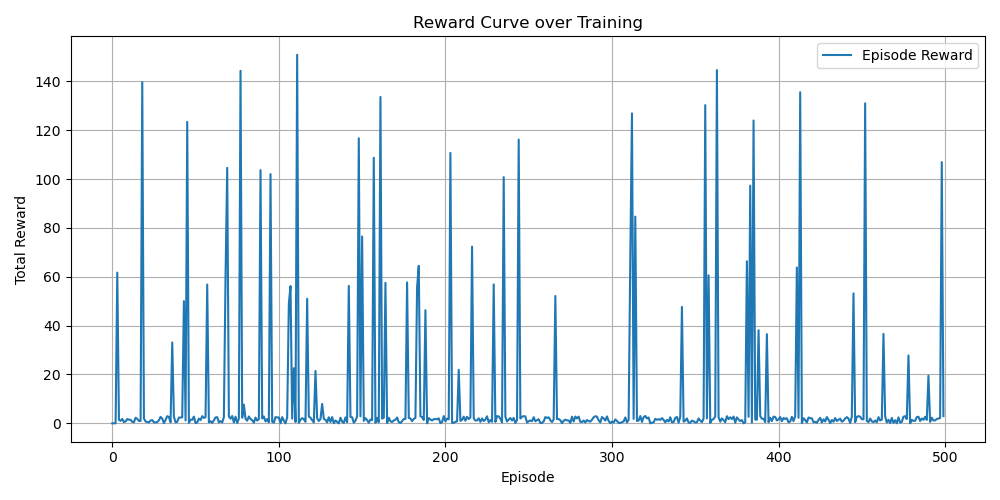
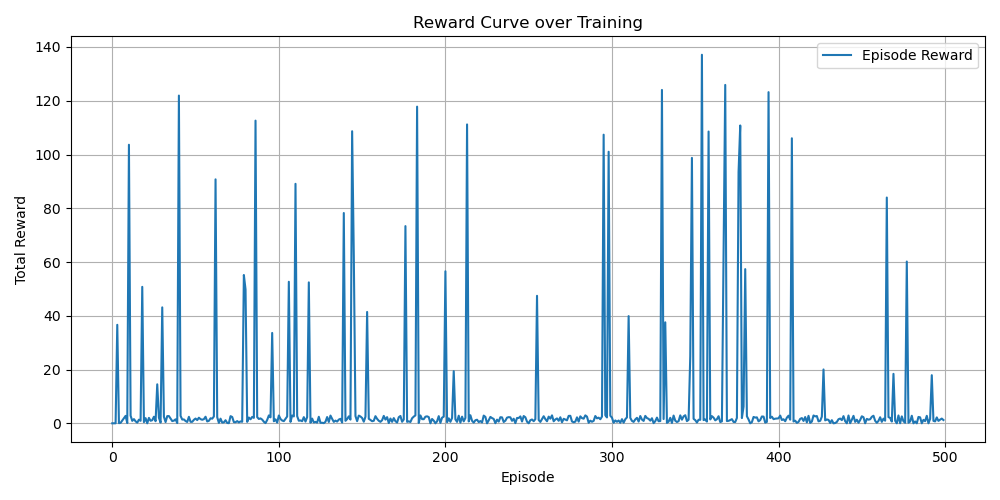
move plotting functions and made data more correlated

diff --git a/bidding_agent.py b/bidding_agent.py
@@ -1,23 +1,18 @@
 import pdb
 import gym
 from gym import spaces
-import numpy as np
 import random
 from stable_baselines3 import PPO
 import pandas as pd
 import os
 import csv
-import matplotlib.pyplot as plt
-import umap
-from sklearn.manifold import TSNE
 import torch
 import torch.nn as nn
 import torch.optim as optim
 from torch.utils.data import TensorDataset, DataLoader
 import numpy as np
 from sklearn.model_selection import train_test_split
-from sklearn.cluster import KMeans, DBSCAN
-from sklearn.preprocessing import StandardScaler
+from plotter import *
 
 
 
@@ -38,139 +33,56 @@ export LANG="en_US.UTF-8"
 
 """
 
-# ------------------------------------------------------------------------------------------------------------
-# Plotting Function
-# ------------------------------------------------------------------------------------------------------------
-def plot_reward_curve(rewards):
-    plt.figure(figsize=(10, 5))
-    plt.plot(rewards, label="Episode Reward")
-    plt.xlabel("Episode")
-    plt.ylabel("Total Reward")
-    plt.title("Reward Curve over Training")
-    plt.legend()
-    plt.grid(True)
-    plt.tight_layout()
-    plt.savefig("reward_curve.png")
-    plt.close('all')
-    print("[✓] Reward curve saved as 'reward_curve.png'")
-
-
-# def visualize_embeddings(method="umap", embedding_file="encoded_states_pytorch.npy", label_type="time_of_day"):
-#     X = np.load(embedding_file)
-#     if X.shape[0] < 5:
-#         print(f"[⚠] Not enough data to visualize embeddings: only {X.shape[0]} samples.")
-#         return
-#
-#     labels = np.load(f"labels_{label_type}.npy", allow_pickle=True)
-#     if len(labels) != len(X):
-#         print(f"[⚠] Label and embedding size mismatch: {len(labels)} vs {len(X)}")
-#         return
-
-def visualize_embeddings(method="umap", embedding_file="encoded_states_pytorch.npy", label_type="time_of_day"):
-    X = np.load(embedding_file)
-    if X.shape[0] < 5:
-        print(f"[⚠] Not enough data to visualize embeddings: only {X.shape[0]} samples.")
-        return
-
-    labels = np.load(f"labels_{label_type}.npy", allow_pickle=True)
-    if len(labels) != len(X):
-        print(f"[⚠] Label and embedding size mismatch: {len(labels)} vs {len(X)}")
-        return
-
-    if method == "umap":
-        reducer = umap.UMAP(n_neighbors=15, min_dist=0.1, random_state=42)
-        reduced = reducer.fit_transform(X)
-    else:
-        tsne = TSNE(n_components=2, perplexity=30, n_iter=1000, random_state=42)
-        reduced = tsne.fit_transform(X)
-
-    plt.figure(figsize=(8, 6))
-    unique_labels = np.unique(labels)
-    for label in unique_labels:
-        mask = labels == label
-        plt.scatter(reduced[mask, 0], reduced[mask, 1], label=str(label), s=15, alpha=0.6)
-
-    plt.title(f"{method.upper()} Projection Colored by {label_type}")
-    plt.legend(title=label_type)
-    plt.tight_layout()
-    plt.grid(True)
-    plt.savefig(f"{method}_{label_type}_plot.png")
-    plt.close()
-
-
-def cluster_embeddings(method="kmeans", embedding_file="encoded_states_pytorch.npy", n_clusters=5):
-    X = np.load(embedding_file)
-
-    # Optional: normalize for DBSCAN
-    X_scaled = StandardScaler().fit_transform(X)
-
-    if method == "kmeans":
-        model = KMeans(n_clusters=n_clusters, random_state=42)
-        labels = model.fit_predict(X)
-    else:
-        model = DBSCAN(eps=0.5, min_samples=5)
-        labels = model.fit_predict(X_scaled)
-
-    # Visualize the clusters in 2D
-    reducer = umap.UMAP(n_neighbors=15, min_dist=0.1, random_state=42)
-    reduced = reducer.fit_transform(X)
-
-    plt.figure(figsize=(8, 6))
-    unique_labels = np.unique(labels)
-    for label in unique_labels:
-        mask = labels == label
-        color = 'gray' if label == -1 else None  # DBSCAN noise
-        plt.scatter(reduced[mask, 0], reduced[mask, 1], s=15, alpha=0.6, label=f"Cluster {label}", c=color)
-
-    plt.title(f"{method.upper()} Clustering on Encoded Embeddings")
-    plt.xlabel("UMAP Dim 1")
-    plt.ylabel("UMAP Dim 2")
-    plt.legend()
-    plt.grid(True)
-    plt.tight_layout()
-    plt.savefig(f"{method}_clusters.png")
-    plt.close()
-
-    print(f"[✓] Cluster plot saved as '{method}_clusters.png'")
-    return labels
-
-
-def compare_rewards(bandit_rewards, ppo_rewards):
-    plt.figure(figsize=(10, 5))
-    plt.plot(bandit_rewards, label="Bandit (Offline)", alpha=0.8)
-    plt.plot(ppo_rewards, label="PPO (Online Rollout)", alpha=0.8)
-    plt.xlabel("Episode / Step")
-    plt.ylabel("Reward")
-    plt.title("Reward Comparison: Bandit vs PPO")
-    plt.legend()
-    plt.grid(True)
-    plt.tight_layout()
-    plt.savefig("ppo_vs_bandit_rewards.png")
-    plt.close()
-    print("[✓] Comparison plot saved as 'ppo_vs_bandit_rewards.png'")
 
 # ------------------------------------------------------------------------------------------------------------
 # Simulated Data
+# 👵 Older users respond better to high bids
+# 🌅 Certain times of day have higher engagement
+# 📈 Users with higher "history" respond more
+# 🧠 Bids matter, but only in the right context
 # ------------------------------------------------------------------------------------------------------------
 np.random.seed(42)
-
-# Number of simulated data points
 num_samples = 1000
 
-# Simulated viewer metadata
-viewer_age = np.random.randint(18, 70, size=num_samples)  # Age between 18 and 70
+# Viewer metadata
+viewer_age = np.random.randint(18, 70, size=num_samples)
 viewer_gender = np.random.choice(['male', 'female', 'non-binary'], size=num_samples)
-# Simulated time of day categories
 time_of_day = np.random.choice(['morning', 'afternoon', 'evening', 'night'], size=num_samples)
-# Simulated history
 history = np.random.randint(0, 20, size=num_samples)
-
-# Simulated action: bid levels (0: no bid, 1: low, 2: medium, 3: high)
 bid = np.random.choice([0, 1, 2, 3], size=num_samples)
 
-# Simulated reward: a function of the bid and randomness
-reward = np.where(bid == 0, 0, np.random.rand(num_samples) * bid)
+# Encoding helper
+def encode_gender(g):
+    return {'male': 0, 'female': 1, 'non-binary': 2}[g]
 
+def encode_time(t):
+    return {'morning': 0, 'afternoon': 1, 'evening': 2, 'night': 3}[t]
+
+# Reward model with correlation
+reward = []
+for i in range(num_samples):
+    base = 0.1
+
+    # Positively correlated factors
+    age_factor = (viewer_age[i] - 18) / 52  # normalized
+    history_factor = history[i] / 20
+    time_factor = encode_time(time_of_day[i]) / 3
+    gender_factor = encode_gender(viewer_gender[i]) / 2
+
+    # Add correlation: high bid + older age + active history + evening time
+    signal = (
+        0.4 * bid[i] / 3 +
+        0.2 * age_factor +
+        0.2 * history_factor +
+        0.1 * time_factor +
+        0.1 * gender_factor
+    )
+
+    noise = np.random.normal(loc=0.0, scale=0.05)
+    reward_val = max(0.0, min(1.0, signal + noise))  # clamp to [0, 1]
+    reward.append(reward_val)
+
+# Build DataFrame
 df = pd.DataFrame({
     'viewer_age': viewer_age,
     'viewer_gender': viewer_gender,
@@ -182,10 +94,9 @@ df = pd.DataFrame({
 
 csv_filename = 'simulated_bid_data.csv'
 df.to_csv(csv_filename, index=False)
-print(f"Simulated dataset saved as {csv_filename}")
 
-print(df.head(5))
-print(df.shape)
+print(f"Simulated dataset saved as {csv_filename}")
+print(df.head())
 print(df.describe())
 
 # ------------------------------------------------------------------------------------------------------------
@@ -269,6 +180,10 @@ def train_contextual_bandit(env, episodes=500, log_path='bandit_logs.csv'):
     rewards = []
     log_data = []
 
+    all_embeddings = []
+    all_time_of_day = []
+    all_bids = []
+
     for episode in range(episodes):
         state = env.reset()
         done = False
@@ -284,29 +199,37 @@ def train_contextual_bandit(env, episodes=500, log_path='bandit_logs.csv'):
             steps += 1
 
         rewards.append(total_reward)
-
         log_data.append({
             "episode": episode,
             "reward": total_reward,
             "steps": steps
         })
 
+        # Accumulate data
+        all_embeddings.extend(env.state_embeddings)
+        all_time_of_day.extend(env.labels["time_of_day"])
+        all_bids.extend(env.labels["bid"])
+
         if episode % 100 == 0:
             print(f"Episode {episode}: Total Reward = {total_reward:.2f}")
 
-    # Export logs
+    # Save logs
     keys = log_data[0].keys()
     with open(log_path, 'w', newline='') as f:
         writer = csv.DictWriter(f, fieldnames=keys)
         writer.writeheader()
         writer.writerows(log_data)
+
     print(f"[✓] Training log saved to {log_path}")
 
-    # Export state embeddings
-    np.save("state_embeddings.npy", np.array(env.state_embeddings))
-    print("[✓] Final state embeddings saved to 'state_embeddings.npy'")
+    # Save all accumulated data
+    np.save("state_embeddings.npy", np.array(all_embeddings))
+    np.save("labels_time_of_day.npy", np.array(all_time_of_day))
+    np.save("labels_bid.npy", np.array(all_bids))
+    print(f"[✓] Saved {len(all_embeddings)} state embeddings across {episodes} episodes.")
 
     return agent, rewards
+
 
 
 # ------------------------------------------------------------------------------------------------------------
@@ -412,9 +335,9 @@ if __name__ == "__main__":
     plot_reward_curve(bandit_rewards)
 
     # === 2. Save state embeddings and labels ===
-    np.save("state_embeddings.npy", np.array(env.state_embeddings))
-    np.save("labels_time_of_day.npy", np.array(env.labels["time_of_day"]))
-    np.save("labels_bid.npy", np.array(env.labels["bid"]))
+    # np.save("state_embeddings.npy", np.array(env.state_embeddings))
+    # np.save("labels_time_of_day.npy", np.array(env.labels["time_of_day"]))
+    # np.save("labels_bid.npy", np.array(env.labels["bid"]))
 
     # === 3. Train Autoencoder (PyTorch) ===
     encoded_states = train_autoencoder_pytorch(embeddings_path='state_embeddings.npy')

diff --git a/plotter.py b/plotter.py
@@ -1,0 +1,116 @@
+import numpy as np
+import matplotlib.pyplot as plt
+import umap
+from sklearn.manifold import TSNE
+from sklearn.cluster import KMeans, DBSCAN
+from sklearn.preprocessing import StandardScaler
+# ------------------------------------------------------------------------------------------------------------
+# Plotting Function
+# ------------------------------------------------------------------------------------------------------------
+def plot_reward_curve(rewards):
+    plt.figure(figsize=(10, 5))
+    plt.plot(rewards, label="Episode Reward")
+    plt.xlabel("Episode")
+    plt.ylabel("Total Reward")
+    plt.title("Reward Curve over Training")
+    plt.legend()
+    plt.grid(True)
+    plt.tight_layout()
+    plt.savefig("reward_curve.png")
+    plt.close('all')
+    print("[✓] Reward curve saved as 'reward_curve.png'")
+
+
+# def visualize_embeddings(method="umap", embedding_file="encoded_states_pytorch.npy", label_type="time_of_day"):
+#     X = np.load(embedding_file)
+#     if X.shape[0] < 5:
+#         print(f"[⚠] Not enough data to visualize embeddings: only {X.shape[0]} samples.")
+#         return
+#
+#     labels = np.load(f"labels_{label_type}.npy", allow_pickle=True)
+#     if len(labels) != len(X):
+#         print(f"[⚠] Label and embedding size mismatch: {len(labels)} vs {len(X)}")
+#         return
+
+def visualize_embeddings(method="umap", embedding_file="encoded_states_pytorch.npy", label_type="time_of_day"):
+    X = np.load(embedding_file)
+    if X.shape[0] < 5:
+        print(f"[⚠] Not enough data to visualize embeddings: only {X.shape[0]} samples.")
+        return
+
+    labels = np.load(f"labels_{label_type}.npy", allow_pickle=True)
+    if len(labels) != len(X):
+        print(f"[⚠] Label and embedding size mismatch: {len(labels)} vs {len(X)}")
+        return
+
+    if method == "umap":
+        reducer = umap.UMAP(n_neighbors=15, min_dist=0.1, random_state=42)
+        reduced = reducer.fit_transform(X)
+    else:
+        tsne = TSNE(n_components=2, perplexity=30, n_iter=1000, random_state=42)
+        reduced = tsne.fit_transform(X)
+
+    plt.figure(figsize=(8, 6))
+    unique_labels = np.unique(labels)
+    for label in unique_labels:
+        mask = labels == label
+        plt.scatter(reduced[mask, 0], reduced[mask, 1], label=str(label), s=15, alpha=0.6)
+
+    plt.title(f"{method.upper()} Projection Colored by {label_type}")
+    plt.legend(title=label_type)
+    plt.tight_layout()
+    plt.grid(True)
+    plt.savefig(f"{method}_{label_type}_plot.png")
+    plt.close()
+
+
+def cluster_embeddings(method="kmeans", embedding_file="encoded_states_pytorch.npy", n_clusters=5):
+    X = np.load(embedding_file)
+
+    # Optional: normalize for DBSCAN
+    X_scaled = StandardScaler().fit_transform(X)
+
+    if method == "kmeans":
+        model = KMeans(n_clusters=n_clusters, random_state=42)
+        labels = model.fit_predict(X)
+    else:
+        model = DBSCAN(eps=0.5, min_samples=5)
+        labels = model.fit_predict(X_scaled)
+
+    # Visualize the clusters in 2D
+    reducer = umap.UMAP(n_neighbors=15, min_dist=0.1, random_state=42)
+    reduced = reducer.fit_transform(X)
+
+    plt.figure(figsize=(8, 6))
+    unique_labels = np.unique(labels)
+    for label in unique_labels:
+        mask = labels == label
+        color = 'gray' if label == -1 else None  # DBSCAN noise
+        plt.scatter(reduced[mask, 0], reduced[mask, 1], s=15, alpha=0.6, label=f"Cluster {label}", c=color)
+
+    plt.title(f"{method.upper()} Clustering on Encoded Embeddings")
+    plt.xlabel("UMAP Dim 1")
+    plt.ylabel("UMAP Dim 2")
+    plt.legend()
+    plt.grid(True)
+    plt.tight_layout()
+    plt.savefig(f"{method}_clusters.png")
+    plt.close()
+
+    print(f"[✓] Cluster plot saved as '{method}_clusters.png'")
+    return labels
+
+
+def compare_rewards(bandit_rewards, ppo_rewards):
+    plt.figure(figsize=(10, 5))
+    plt.plot(bandit_rewards, label="Bandit (Offline)", alpha=0.8)
+    plt.plot(ppo_rewards, label="PPO (Online Rollout)", alpha=0.8)
+    plt.xlabel("Episode / Step")
+    plt.ylabel("Reward")
+    plt.title("Reward Comparison: Bandit vs PPO")
+    plt.legend()
+    plt.grid(True)
+    plt.tight_layout()
+    plt.savefig("ppo_vs_bandit_rewards.png")
+    plt.close()
+    print("[✓] Comparison plot saved as 'ppo_vs_bandit_rewards.png'")
